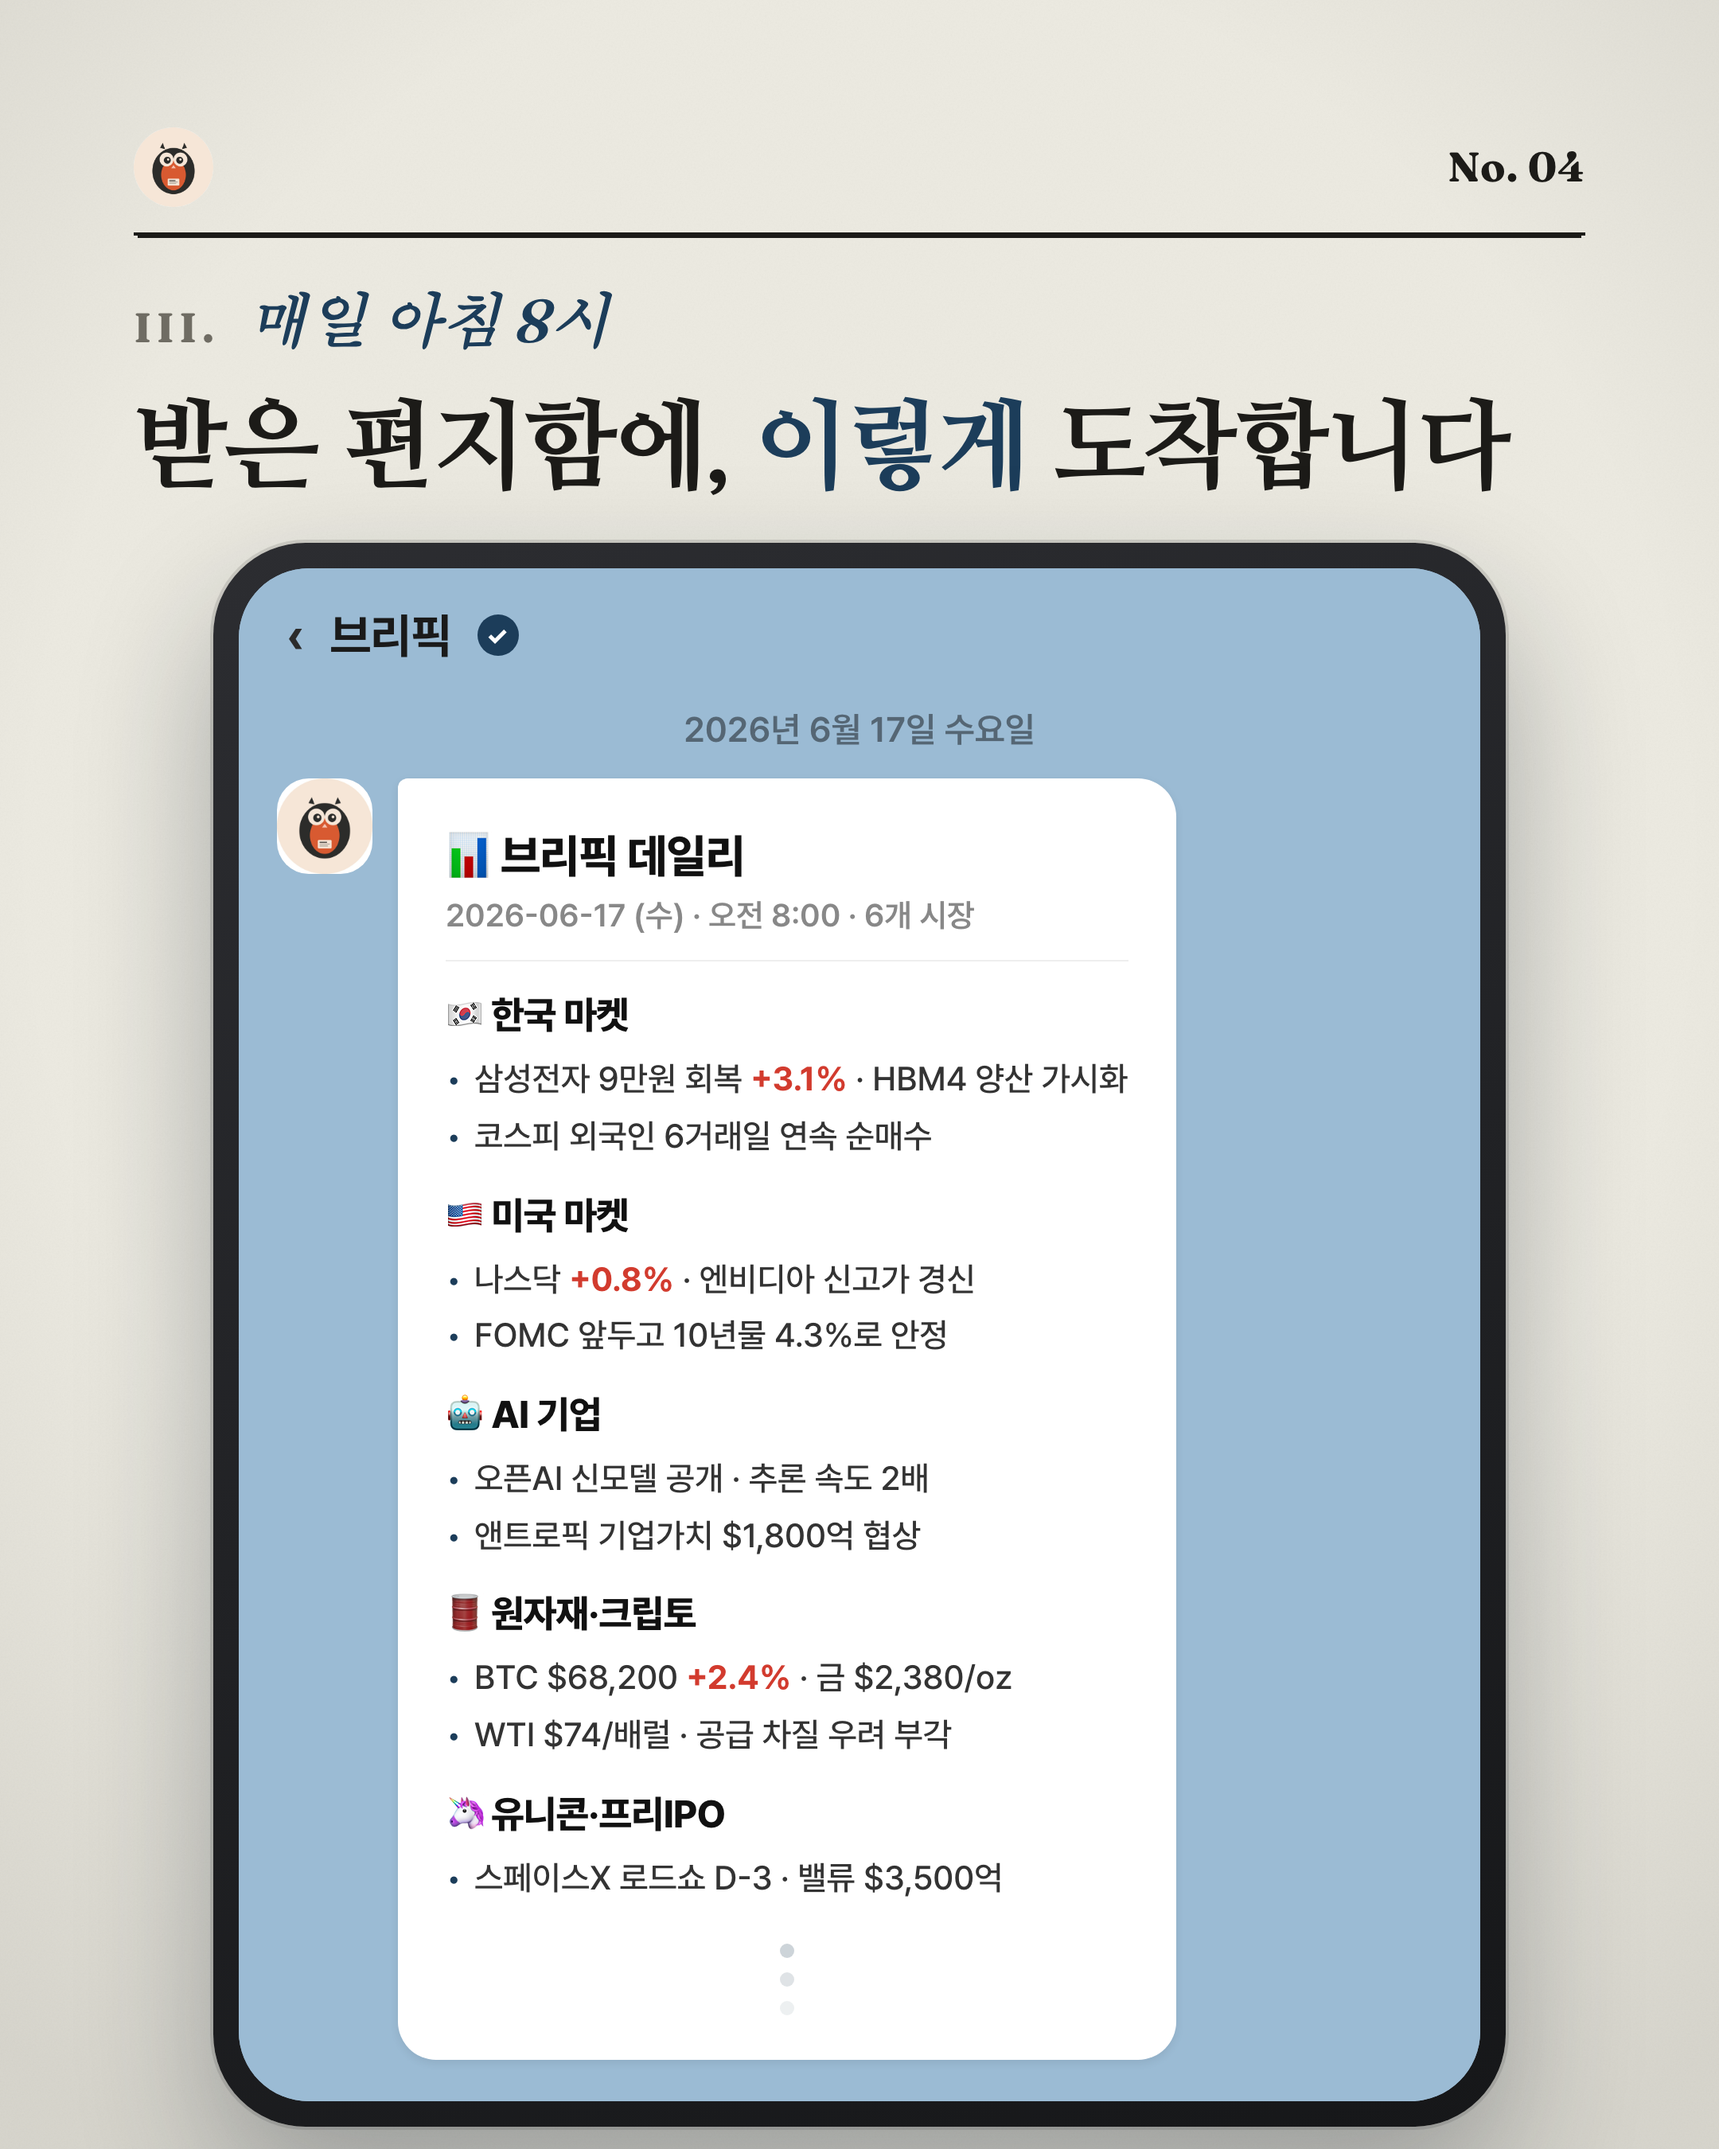
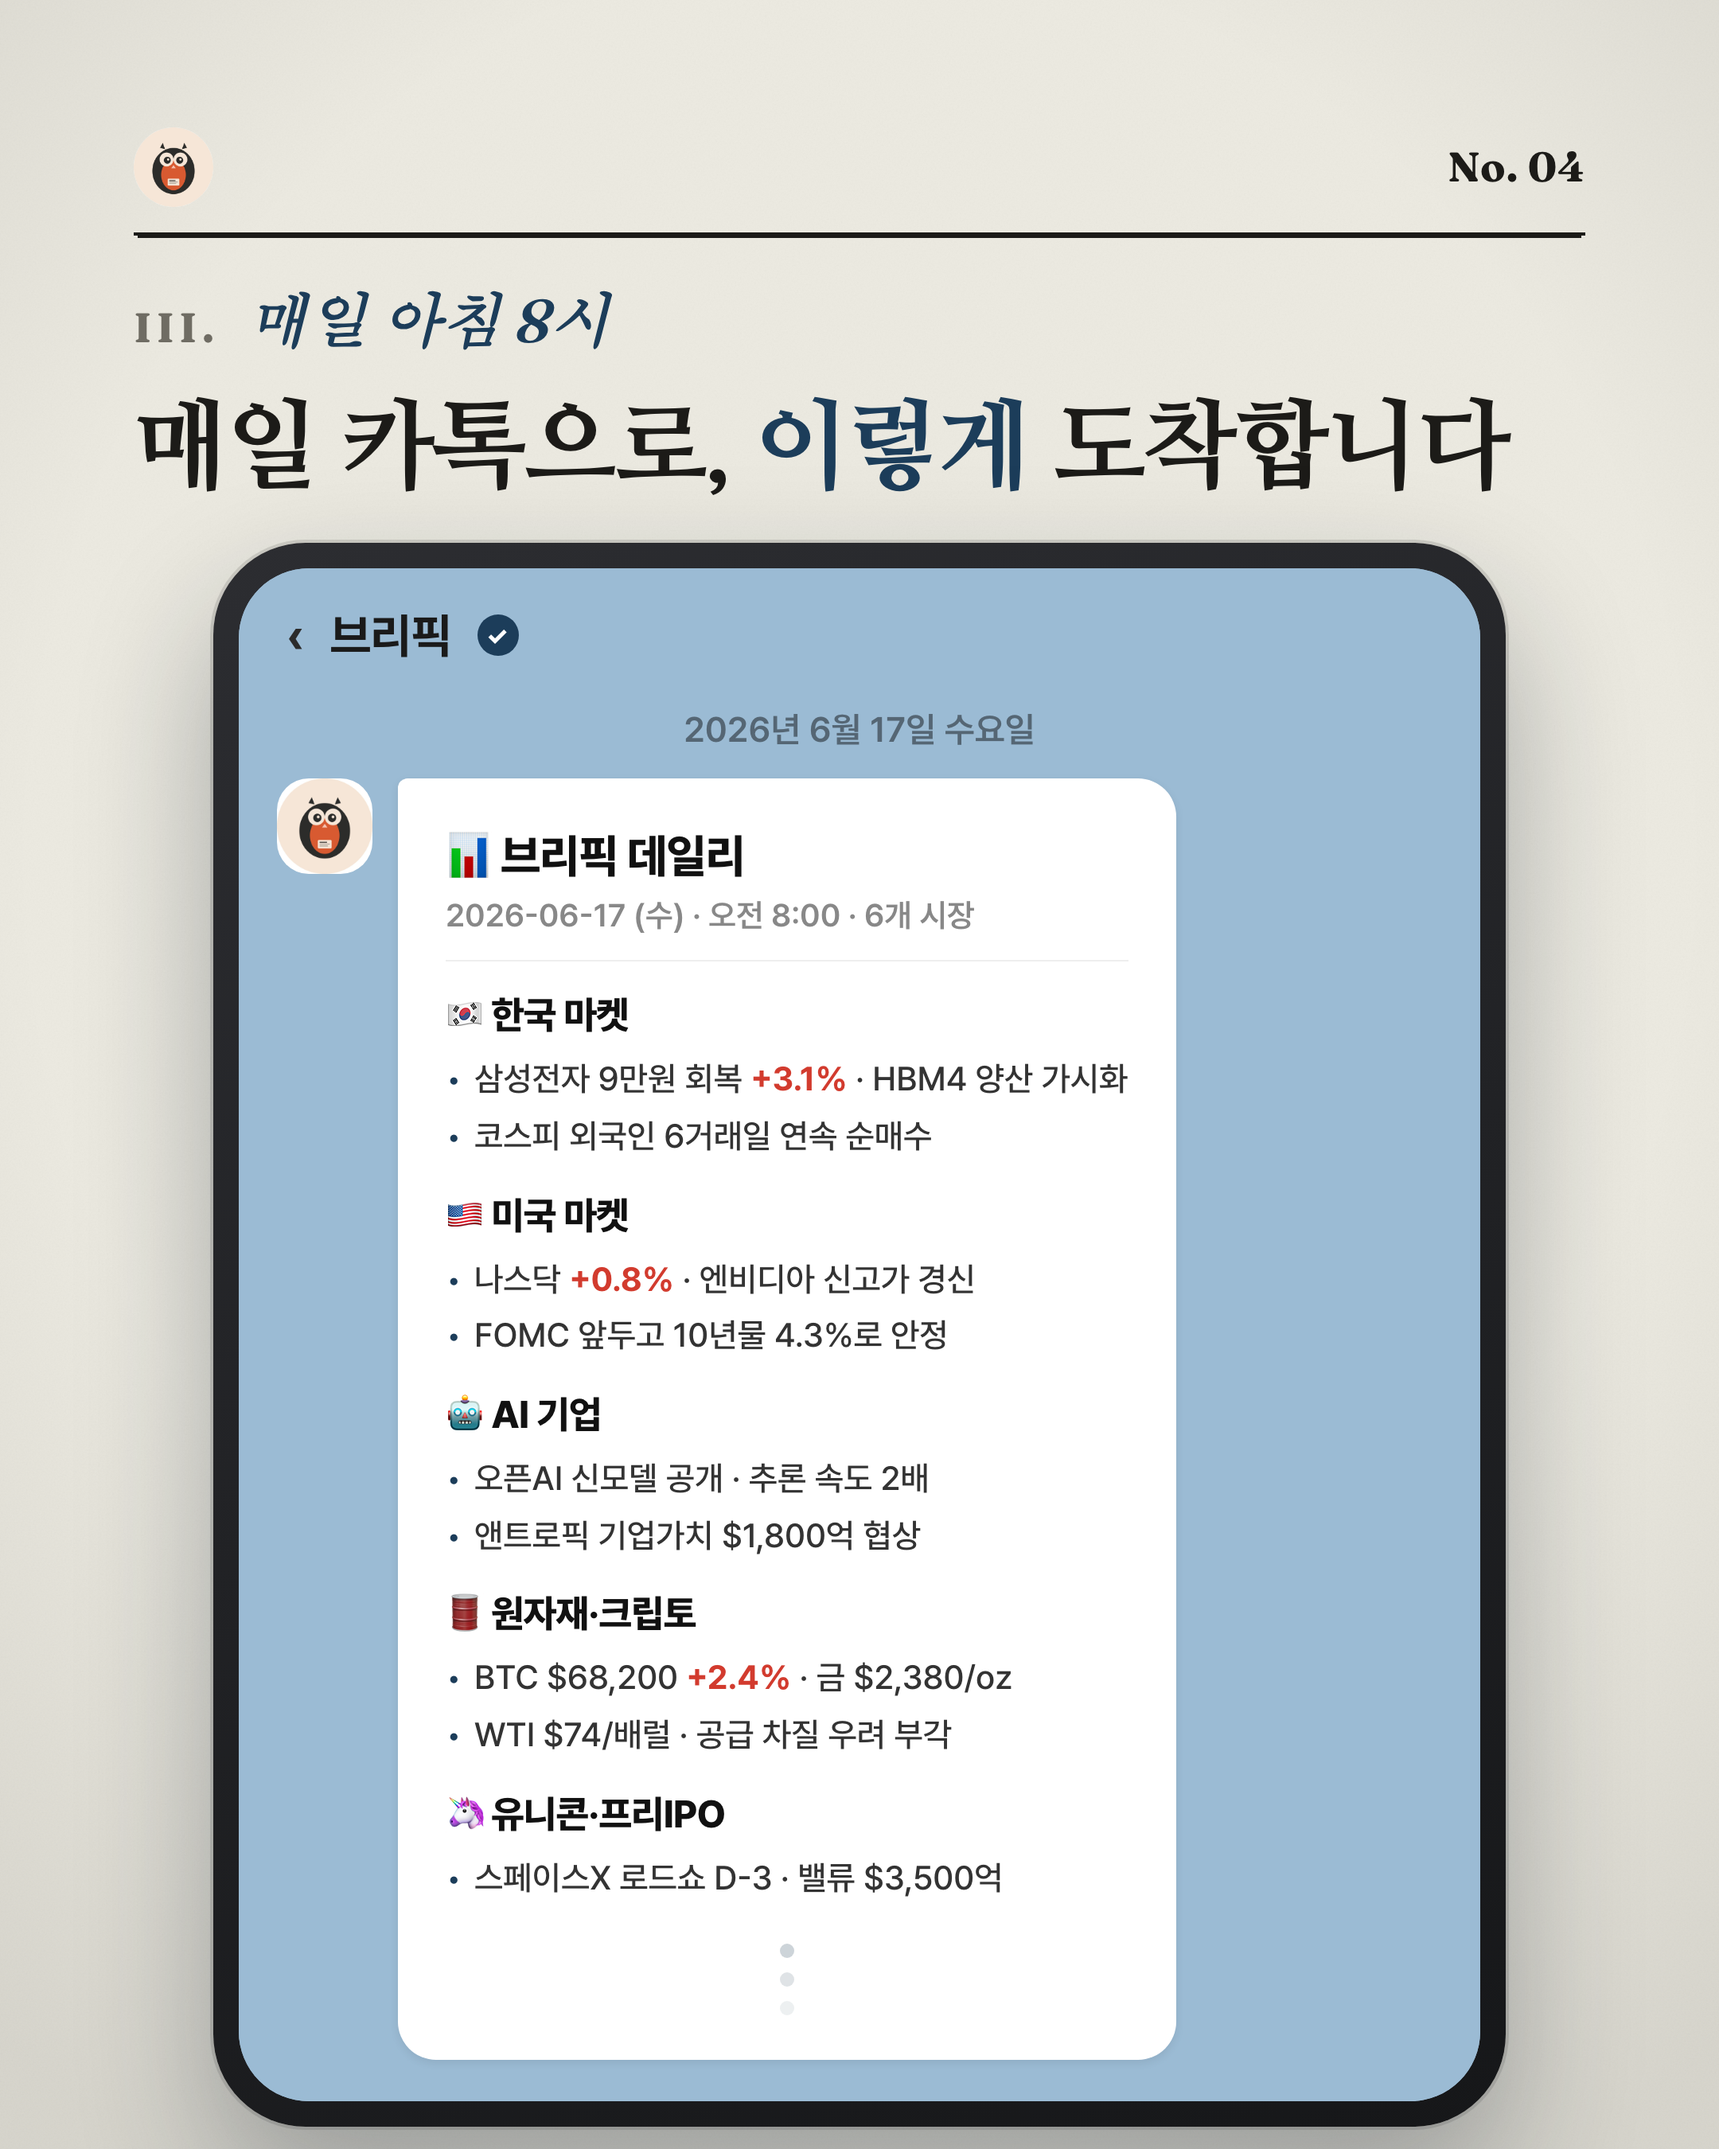
프로모 4페이지 타이틀 문구 수정 - 받은 편지함에 → 매일 카톡으로

Changed region(s): [[0.062, 0.1867, 0.4343, 0.2489]]

diff --git a/scripts/promo/template.html b/scripts/promo/template.html
@@ -290,7 +290,7 @@
     <div class="right"><span class="pageno">No. 04</span></div>
   </div>
   <div class="kicker" style="margin-top:30px"><span class="no">III.</span> 매일 아침 8시</div>
-  <div class="title">받은 편지함에, <span class="accent">이렇게</span> 도착합니다</div>
+  <div class="title">매일 카톡으로, <span class="accent">이렇게</span> 도착합니다</div>
   <div class="phonewrap">
     <div class="phone">
       <div class="phone-screen">
